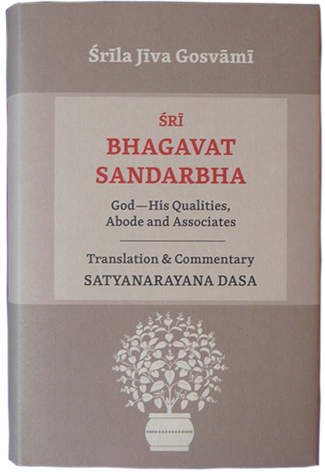
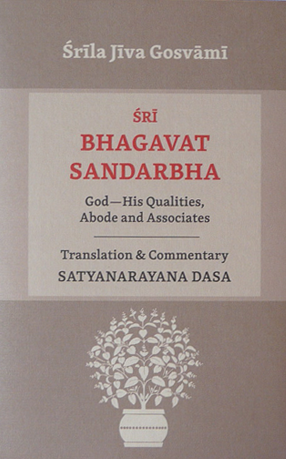
Added hi-res images

diff --git a/index.html b/index.html
@@ -71,7 +71,7 @@
                 <div class="thumbnail" style="background:rgba(255, 255, 255, 0);border:none">
                   <a class="scrollto" href="#news">
                     <!--img style="max-height:70%" src="images/protrait-bhagavat-sandarbha.png"-->
-                    <img style="max-height:70%" src="images/book-portrait.png">
+                    <img style="max-height:60%" src="images/book-portrait.jpg">
                   </a>
                 </div>
                   <h3 style="text-align:center"><a class="link" href="http://store.jiva.org/books/27" target="_blank">Avaliable Now</a></h3>
@@ -398,6 +398,7 @@ to be in touch with the widest possible array of knowledge systems in general an
                   <h4 class="media-heading">
                     <a href="http://gopaljiu.org/tmp/ggmbackup" class="link">Gaudiya Grantha Mandir</a></h4>
                   <p class="media-text">Collection of Devotional Texts and Scriptures</p>
+                  <br>
                 </div>
               </li>
             </ul>
